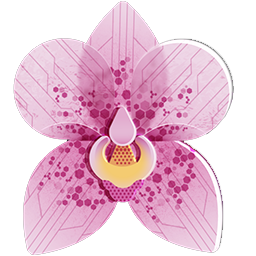
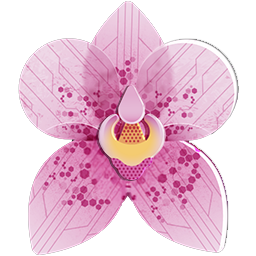
Update styles and effects for game UI elements; adjust colors and add glow effects

diff --git a/app/globals.css b/app/globals.css
@@ -1461,12 +1461,12 @@ h1, h2, h3, h4, h5, h6 {
   }
 
   .bg-destructive\/20 {
-    background-color: rgba(0, 0, 0, 0.33);
+    background-color: rgba(0, 0, 0, 0.25);
     backdrop-filter: blur(2px);
   }
 
   .bg-destructive\/20:hover {
-    background-color:rgba(0, 0, 0, 0.33);;
+    background-color:rgba(0, 0, 0, 0.25);;
     backdrop-filter: blur(2px);
   }
 
@@ -1514,21 +1514,31 @@ h1, h2, h3, h4, h5, h6 {
   .bg-transparent {
     background-color: transparent;
   }
+
+
+  
   .buttonCheckpoint {
-    background-image: url('../components/game/assets/flower.png');
+    background-image: url('../components/game/assets/flowerbug.png');
     background-size: cover;
     background-position: center;
     background-repeat: no-repeat;
     scale: 1.5;
     z-index: 2;
     transition: 1s ease !important;
+    animation :  5s ease-in-out infinite;
   }
 
   .buttonCheckpoint:hover {
     transition: 1s ease !important; 
-    transform: scale(1.1) rotate(20deg); /* Combine scale and rotate transformations */
+    transform: scale(1.1) rotate(360deg);
+    background-image: url('../components/game/assets/flower.png'); /* Combine scale and rotate transformations */
 
   }
+
+  .buttonCheckpoint.persistent-hover {
+    transform: scale(1.1) rotate(360deg);
+    background-image: url('../components/game/assets/flower.png');
+}
 
   .fill-current {
     fill: currentColor;

diff --git a/components/game/game_ui/path/drawMainPath.ts b/components/game/game_ui/path/drawMainPath.ts
@@ -21,10 +21,16 @@ export function drawMainPath(
 
   if (currentPath.length > 1) {
     ctx.beginPath();
-    ctx.strokeStyle = "rgba(59, 130, 246, 0.8)";
+    ctx.strokeStyle = "rgba(255, 255, 255, 0.9)";
     ctx.lineWidth = 16;
     ctx.lineCap = "round";
     ctx.lineJoin = "round";
+
+    // Add glow effect
+    ctx.shadowBlur = 20;
+    ctx.shadowColor = "rgba(255, 255, 255, 0.8)";
+    ctx.shadowOffsetX = 0;
+    ctx.shadowOffsetY = 0;
 
     const start = getCellCenter(currentPath[0]);
     ctx.moveTo(start.x, start.y);
@@ -34,5 +40,9 @@ export function drawMainPath(
       ctx.lineTo(pos.x, pos.y);
     }
     ctx.stroke();
+
+    // Reset shadow properties to avoid affecting other drawings
+    ctx.shadowBlur = 0;
+    ctx.shadowColor = "transparent";
   }
 }

diff --git a/components/game/game_ui/path/drawMirrorPath.ts b/components/game/game_ui/path/drawMirrorPath.ts
@@ -21,10 +21,16 @@ export function drawMirrorPath(
 
   if (mirrorPath.length > 1) {
     ctx.beginPath();
-    ctx.strokeStyle = "rgba(168, 85, 247, 0.8)";
+    ctx.strokeStyle = "rgba(255, 182, 239, 0.8)";
     ctx.lineWidth = 16;
     ctx.lineCap = "round";
     ctx.lineJoin = "round";
+
+        // Add glow effect
+        ctx.shadowBlur = 20;
+        ctx.shadowColor = "rgba(255, 182, 239, 0.8)";
+        ctx.shadowOffsetX = 0;
+        ctx.shadowOffsetY = 0;
 
     const start = getCellCenter(mirrorPath[0]);
     ctx.moveTo(start.x, start.y);

diff --git a/components/game/game_ui/cell/MazeCell.tsx b/components/game/game_ui/cell/MazeCell.tsx
@@ -33,7 +33,7 @@ export function MazeCell({
 }: MazeCellProps) {
   return (
     <div
-      className={cn("border border-gray-200 transition-colors rounded-md", {
+      className={cn("border border-gray-200 transition-colors", {
         "bg-destructive/20 pointer-events-none": !isWalkable,
         "buttonStart bg-transparent": isStart,
         "bg-green-500": isEnd,
